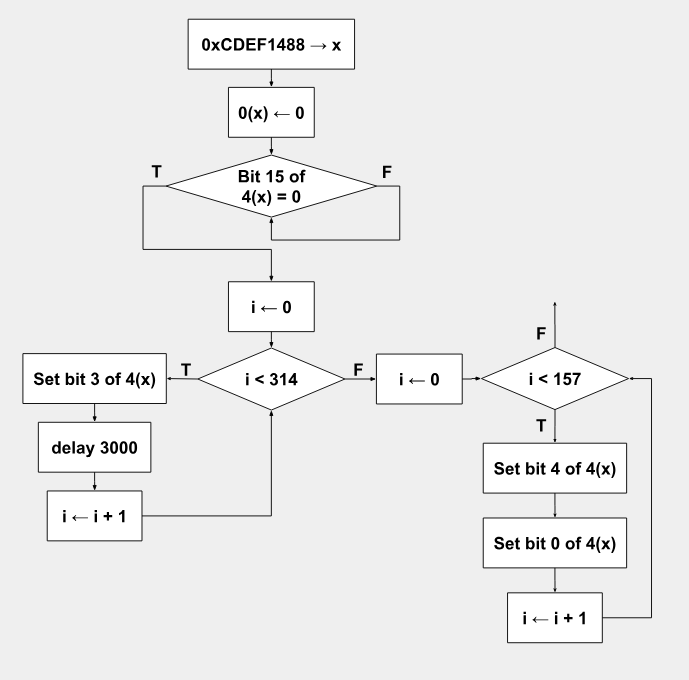
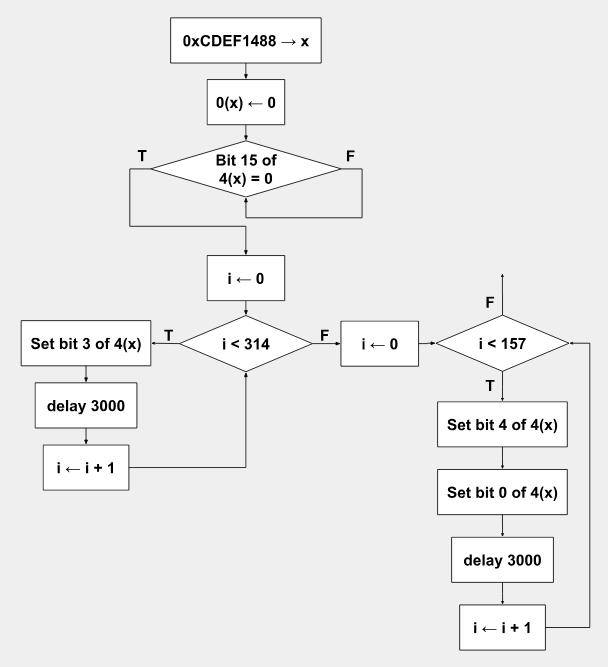
Finish robot

Changed region(s): [[0.0312, 0.0, 0.625, 0.8096], [0.4688, 0.4498, 1.0, 0.9895], [0.875, 0.5097, 0.9688, 0.5697]]

diff --git a/cs260/HW 2 ROBOT.md b/cs260/HW 2 ROBOT.md
@@ -9,5 +9,32 @@ CFG:
 Code:
 
 ```
+init:   li    $t0, 0xCDEF1488    # t0 <- addr of arm controller
+        sw    $zero, 0($t0)      # initialize arm: 0xCD..88 <- 0
 
+LReady: lw    $t1, 4($t0)        # t1 <- arm addr 0xCD..8C
+        andi  $t2, $t1, 0x8000   # t2 <- get bit 15 of arm
+        bne   $t2, $zero, LReady # iterate if arm is not ready
+
+LR_end: addi  $t2, $zero, 0      # t2 <- 0 
+        ori   $t3, $t1, 0x0008   # t3 <- set finger 3 of arm
+LIndex: slti  $t4, $t2, 314      # t4 <- 1 if t2 < 314, else t4 <- 0
+        beq   $t4, $zero, LI_end # exit LIndex if finger moved fully
+        sw    $t3, 4($t0)        # move index finger by .01r
+        delay 3000               # motor keepup
+        addi  $t2, $t2, 1        # t2 <- t2 + 1
+        j     LIndex             # iterate
+
+LI_end: addi  $t2, $zero, 0      # t2 <- 0
+        ori   $t3, $t1, 0x0010   # t3 <- set finger 4 of arm
+        ori   $t4, $t1, 0x0001   # t4 <- set finger 0 of arm
+LHalf:  slti  $t5, $t2, 157      # t5 <- 1 if t2 < 157, else t5 <- 0
+        beq   $t5, $zero, LH_end # exit LHalf if fingers moved halfway
+        sw    $t3, 4($t0)        # move thumb by .01r 
+        sw    $t4, 4($t0)        # move pinky by .01r
+        delay 3000               # motor keepup
+        addi  $t2, $t2, 1        # t2 <- t2 + 1
+        j     LHalf              # iterate
+
+LH_end: ...
 ```
